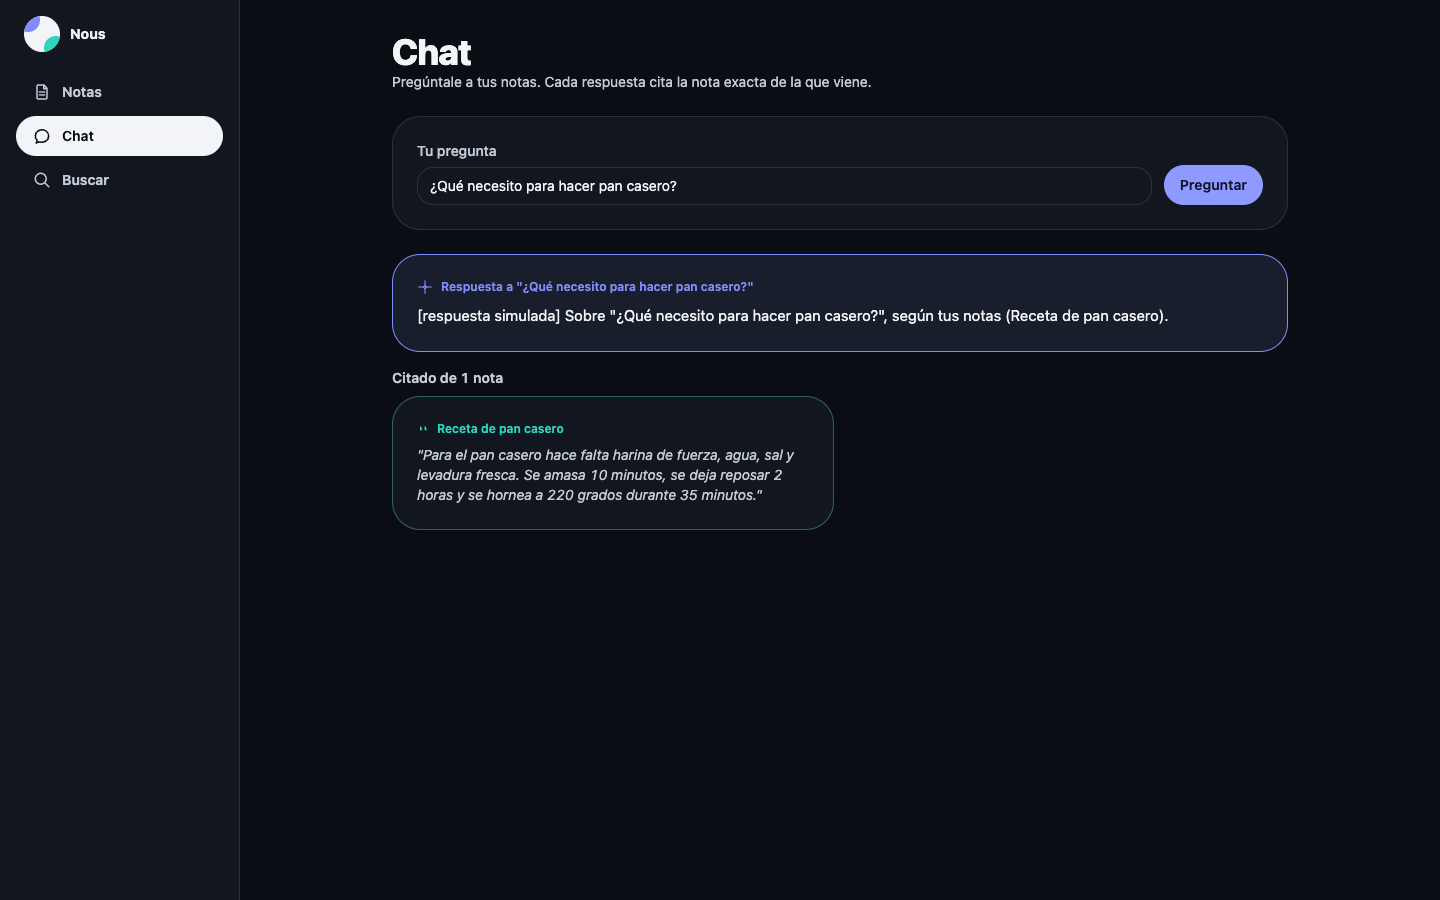
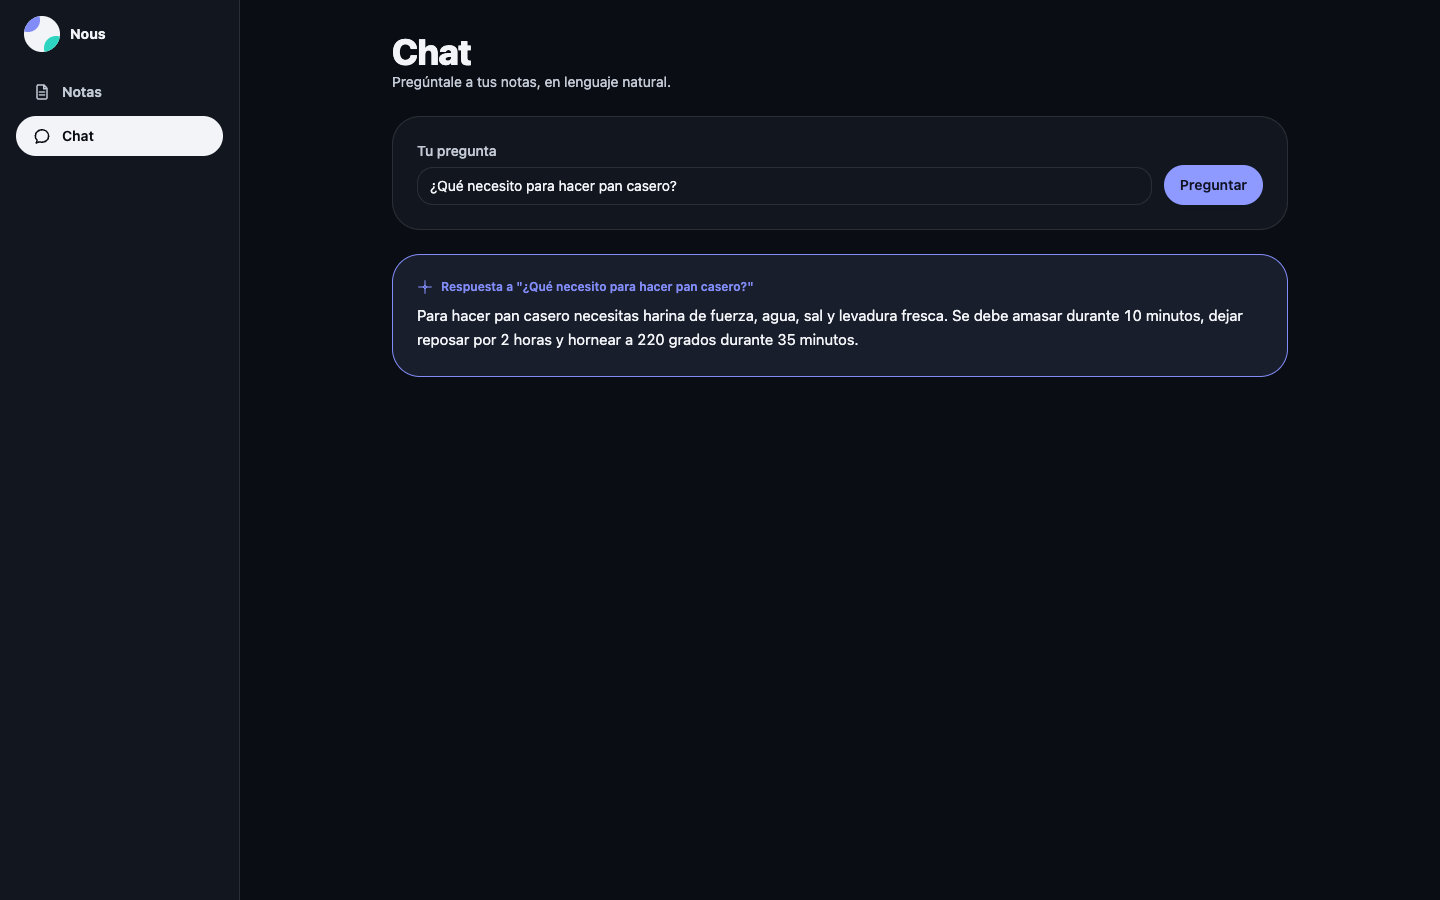
Quita las citas del chat y el buscador: la respuesta generada ya basta
Con Ollama generando respuestas de verdad, el andamiaje de "Citado de N
notas" + tarjetas de cita rompía la sensación de conversación natural sin
aportar nada que se fuera a usar — el chat ahora solo muestra la respuesta.

Por el mismo motivo, el buscador semántico directo (pantalla "Buscar" +
GET /search) queda superado por el chat y se elimina por completo:
frontend, ruta y caso de uso del backend, tests y capturas. El botón
"teal" del design system quedaba sin usar tras esto y se retira también.

De paso, se arregla el prompt del RAG para que el modelo no se refiera a
las notas como "fuente [1]" en su respuesta — artefacto que quedaba de
cuando sí se numeraban para las citas ahora eliminadas.

Claude-Session: https://claude.ai/code/session_01SV5K6VFf8PSQ4QT2ok3gdZ

diff --git a/src/features/chat/ChatScreen.tsx b/src/features/chat/ChatScreen.tsx
@@ -2,7 +2,7 @@ import { useState, type FormEvent } from "react";
 import { Button } from "../../components/Button";
 import { Card } from "../../components/Card";
 import { Field, inputClass } from "../../components/Field";
-import { ChatIcon, QuoteIcon, SparkleIcon } from "../../components/icons";
+import { ChatIcon, SparkleIcon } from "../../components/icons";
 import { askApi } from "../../data/api";
 import type { Answer } from "../../data/types";
 
@@ -36,9 +36,7 @@ export function ChatScreen() {
     <div className="flex flex-col gap-6">
       <div>
         <h1 className="text-3xl font-extrabold tracking-tight text-[var(--text-primary)] sm:text-4xl">Chat</h1>
-        <p className="text-sm text-[var(--text-secondary)]">
-          Pregúntale a tus notas. Cada respuesta cita la nota exacta de la que viene.
-        </p>
+        <p className="text-sm text-[var(--text-secondary)]">Pregúntale a tus notas, en lenguaje natural.</p>
       </div>
 
       <Card>
@@ -97,63 +95,20 @@ export function ChatScreen() {
       )}
 
       {status === "done" && answer && (
-        <div className="flex flex-col gap-4">
-          <Card
-            style={{
-              borderColor: "var(--accent-indigo)",
-              backgroundColor: "color-mix(in srgb, var(--accent-indigo) 6%, var(--surface-1))",
-            }}
-          >
-            <div className="flex items-center gap-2 text-xs font-semibold" style={{ color: "var(--accent-indigo)" }}>
-              <SparkleIcon className="size-4" />
-              Respuesta a "{askedQuestion}"
-            </div>
-            <p className="mt-2 text-[15px] leading-relaxed whitespace-pre-wrap text-[var(--text-primary)]">
-              {answer.text}
-            </p>
-          </Card>
-
-          <div>
-            <h2 className="mb-2 text-sm font-semibold text-[var(--text-secondary)]">
-              {answer.citations.length > 0
-                ? `Citado de ${answer.citations.length} nota${answer.citations.length === 1 ? "" : "s"}`
-                : "Fuentes citadas"}
-            </h2>
-
-            {answer.citations.length === 0 ? (
-              <Card
-                style={{
-                  borderColor: "var(--status-warning)",
-                  backgroundColor: "color-mix(in srgb, var(--status-warning) 8%, var(--surface-1))",
-                }}
-              >
-                <p className="text-sm" style={{ color: "var(--status-warning)" }}>
-                  Esta respuesta no cita ninguna nota. Puede que todavía no tengas notas guardadas, o que ninguna sea
-                  relevante para esta pregunta.
-                </p>
-              </Card>
-            ) : (
-              <div className="grid gap-3 sm:grid-cols-2">
-                {answer.citations.map((citation, i) => (
-                  <Card
-                    key={`${citation.noteId}-${i}`}
-                    className="flex flex-col gap-2"
-                    style={{ borderColor: "color-mix(in srgb, var(--accent-teal) 30%, var(--border))" }}
-                  >
-                    <div
-                      className="flex items-center gap-1.5 text-xs font-semibold"
-                      style={{ color: "var(--accent-teal)" }}
-                    >
-                      <QuoteIcon className="size-3.5" />
-                      {citation.noteTitle}
-                    </div>
-                    <p className="text-sm text-[var(--text-secondary)] italic">"{citation.excerpt}"</p>
-                  </Card>
-                ))}
-              </div>
-            )}
+        <Card
+          style={{
+            borderColor: "var(--accent-indigo)",
+            backgroundColor: "color-mix(in srgb, var(--accent-indigo) 6%, var(--surface-1))",
+          }}
+        >
+          <div className="flex items-center gap-2 text-xs font-semibold" style={{ color: "var(--accent-indigo)" }}>
+            <SparkleIcon className="size-4" />
+            Respuesta a "{askedQuestion}"
           </div>
-        </div>
+          <p className="mt-2 text-[15px] leading-relaxed whitespace-pre-wrap text-[var(--text-primary)]">
+            {answer.text}
+          </p>
+        </Card>
       )}
     </div>
   );

diff --git a/src/components/icons.tsx b/src/components/icons.tsx
@@ -31,15 +31,6 @@ export function ChatIcon(props: IconProps) {
   );
 }
 
-export function SearchIcon(props: IconProps) {
-  return (
-    <svg {...base} {...props}>
-      <circle cx="10.5" cy="10.5" r="6.5" />
-      <path d="m20 20-4.8-4.8" />
-    </svg>
-  );
-}
-
 export function SparkleIcon(props: IconProps) {
   return (
     <svg {...base} {...props}>
@@ -48,16 +39,6 @@ export function SparkleIcon(props: IconProps) {
       <path d="M3 12h4" />
       <path d="M17 12h4" />
       <path d="M12 8.5c0 2-1.5 3.5-3.5 3.5 2 0 3.5 1.5 3.5 3.5 0-2 1.5-3.5 3.5-3.5-2 0-3.5-1.5-3.5-3.5Z" />
-    </svg>
-  );
-}
-
-/** Marca de cita, para señalar visualmente un fragmento anclado a una nota concreta. */
-export function QuoteIcon(props: IconProps) {
-  return (
-    <svg {...base} {...props}>
-      <path d="M5 9.5c0-1.4 1.1-2.5 2.5-2.5v2c-.3 0-.5.2-.5.5v.5h1.5v4H5v-4.5Z" fill="currentColor" stroke="none" />
-      <path d="M13 9.5c0-1.4 1.1-2.5 2.5-2.5v2c-.3 0-.5.2-.5.5v.5h1.5v4H13v-4.5Z" fill="currentColor" stroke="none" />
     </svg>
   );
 }

diff --git a/backend/src/infrastructure/llm/prompt.ts b/backend/src/infrastructure/llm/prompt.ts
@@ -1,14 +1,19 @@
 import type { RetrievedChunk } from "../../domain/types.js";
 
 /** Prompt compartido entre adaptadores de LLM (Claude, Ollama): misma instrucción de
- * "solo con las fuentes de abajo", para que el comportamiento de citar (o no
- * inventar) sea consistente sea cual sea el proveedor real detrás. */
+ * "solo con las notas de abajo", para que el comportamiento de no inventar sea
+ * consistente sea cual sea el proveedor real detrás.
+ *
+ * Sin numerar las fuentes como [1]/[2]: la interfaz de chat no muestra citas (decisión
+ * del usuario — quiere la respuesta limpia, sin la "magia" rota por ver de dónde sale
+ * cada dato), así que no queremos que el modelo se refiera a ellas como "la fuente 2"
+ * dentro de la propia respuesta. */
 export function buildRagPrompt(question: string, context: RetrievedChunk[]): string {
-  const sources = context.map((c, i) => `[${i + 1}] (${c.noteTitle})\n${c.chunk.content}`).join("\n\n");
-  return `Responde a la pregunta usando SOLO la información de las fuentes de abajo. Si no está, di que no lo sabes.
+  const notes = context.map((c) => `(${c.noteTitle})\n${c.chunk.content}`).join("\n\n");
+  return `Responde a la pregunta usando SOLO la información de las notas de abajo, en una respuesta natural y directa. Si no está, di que no lo sabes. No te refieras a las notas por número ni menciones que son "fuentes" — simplemente responde como si lo supieras.
 
-Fuentes:
-${sources}
+Notas:
+${notes}
 
 Pregunta: ${question}`;
 }

diff --git a/src/features/chat/ChatScreen.test.tsx b/src/features/chat/ChatScreen.test.tsx
@@ -17,7 +17,7 @@ describe("ChatScreen", () => {
     expect(screen.getByRole("button", { name: "Preguntar" })).toBeDisabled();
   });
 
-  it("al preguntar, muestra la respuesta citando la nota de origen", async () => {
+  it("al preguntar, muestra la respuesta generada", async () => {
     const user = userEvent.setup();
     askApi.ask.mockResolvedValue({
       text: "Hace falta harina, agua, sal y levadura.",
@@ -30,19 +30,7 @@ describe("ChatScreen", () => {
 
     expect(askApi.ask).toHaveBeenCalledWith("¿Qué hace falta para el pan?");
     expect(await screen.findByText("Hace falta harina, agua, sal y levadura.")).toBeInTheDocument();
-    expect(screen.getByText("Receta de pan")).toBeInTheDocument();
-    expect(screen.getByText('"Harina, agua, sal y levadura."')).toBeInTheDocument();
-  });
-
-  it("sin citas en la respuesta, avisa de que no está anclada a ninguna nota", async () => {
-    const user = userEvent.setup();
-    askApi.ask.mockResolvedValue({ text: "No tienes notas todavía.", citations: [] });
-    render(<ChatScreen />);
-
-    await user.type(screen.getByLabelText("Tu pregunta"), "¿Algo?");
-    await user.click(screen.getByRole("button", { name: "Preguntar" }));
-
-    expect(await screen.findByText(/no cita ninguna nota/)).toBeInTheDocument();
+    expect(screen.getByText('Respuesta a "¿Qué hace falta para el pan?"')).toBeInTheDocument();
   });
 
   it("si la API falla, muestra el error en vez de quedarse cargando", async () => {

diff --git a/backend/src/infrastructure/http/server.test.ts b/backend/src/infrastructure/http/server.test.ts
@@ -117,20 +117,6 @@ describe("POST /ask", () => {
   });
 });
 
-describe("GET /search", () => {
-  it("devuelve los trozos más similares a la búsqueda", async () => {
-    await app.inject({
-      method: "POST",
-      url: "/notes",
-      payload: { content: "Notas de viaje\nFuimos a la playa en verano y comimos marisco fresco." },
-    });
-
-    const res = await app.inject({ method: "GET", url: "/search?q=playa marisco" });
-    expect(res.statusCode).toBe(200);
-    expect(res.json()[0]).toMatchObject({ noteTitle: "Notas de viaje" });
-  });
-});
-
 describe("autenticación opcional (API_TOKEN), de extremo a extremo con el servidor real", () => {
   it("con apiToken configurado, exige el token también en las rutas ya montadas", async () => {
     const authedApp = await buildServer(pool, createFakeEmbeddingProvider(), createFakeLLMProvider(), {

diff --git a/src/components/Button.tsx b/src/components/Button.tsx
@@ -2,12 +2,11 @@ import { forwardRef, type ButtonHTMLAttributes } from "react";
 import { focusRing } from "./Field";
 
 /**
- * Solo cuatro tonos de marca, deliberadamente pocos: "ink" es la acción principal por
+ * Solo tres tonos de marca, deliberadamente pocos: "ink" es la acción principal por
  * defecto de cualquier pantalla o formulario; "indigo" se reserva para la acción que
- * dispara una respuesta generada por IA (Chat); "teal" para la que dispara una
- * recuperación directa de fuentes (Buscar); "critical" para confirmar un borrado.
+ * dispara una respuesta generada por IA (Chat); "critical" para confirmar un borrado.
  */
-export type ButtonTone = "ink" | "indigo" | "teal" | "critical";
+export type ButtonTone = "ink" | "indigo" | "critical";
 
 /**
  * "solid": botón principal, píldora rellena.
@@ -28,7 +27,6 @@ interface ButtonProps extends ButtonHTMLAttributes<HTMLButtonElement> {
 const toneVars: Record<ButtonTone, { bg: string; fg: string }> = {
   ink: { bg: "var(--ink)", fg: "var(--on-ink)" },
   indigo: { bg: "var(--accent-indigo)", fg: "var(--on-accent-indigo)" },
-  teal: { bg: "var(--accent-teal)", fg: "var(--on-accent-teal)" },
   critical: { bg: "var(--status-critical)", fg: "var(--on-status-critical)" },
 };
 

diff --git a/src/App.tsx b/src/App.tsx
@@ -1,17 +1,15 @@
 import { useState, type ComponentType, type SVGProps } from "react";
 import { BrandMark } from "./components/BrandMark";
 import { ConfirmProvider } from "./components/ConfirmProvider";
-import { ChatIcon, NotesIcon, SearchIcon } from "./components/icons";
+import { ChatIcon, NotesIcon } from "./components/icons";
 import { ChatScreen } from "./features/chat/ChatScreen";
-import { BuscarScreen } from "./features/buscar/BuscarScreen";
 import { NotasScreen } from "./features/notas/NotasScreen";
 
-type Section = "notas" | "chat" | "buscar";
+type Section = "notas" | "chat";
 
 const sections: { id: Section; label: string; icon: ComponentType<SVGProps<SVGSVGElement>> }[] = [
   { id: "notas", label: "Notas", icon: NotesIcon },
   { id: "chat", label: "Chat", icon: ChatIcon },
-  { id: "buscar", label: "Buscar", icon: SearchIcon },
 ];
 
 export default function App() {
@@ -51,7 +49,6 @@ export default function App() {
           <div className="mx-auto max-w-4xl">
             {section === "notas" && <NotasScreen />}
             {section === "chat" && <ChatScreen />}
-            {section === "buscar" && <BuscarScreen />}
           </div>
         </main>
 

diff --git a/src/data/api.ts b/src/data/api.ts
@@ -1,4 +1,4 @@
-import type { Answer, NewNote, Note, RetrievedChunk } from "./types";
+import type { Answer, NewNote, Note } from "./types";
 
 // Usa el mismo host desde el que se cargó la página (localhost, IP de LAN o de
 // Tailscale) en vez de "localhost" fijo, que en el móvil apuntaría al propio móvil.
@@ -37,8 +37,4 @@ export const tagsApi = {
 
 export const askApi = {
   ask: (question: string) => request<Answer>("/ask", { method: "POST", body: JSON.stringify({ question }) }),
-};
-
-export const searchApi = {
-  search: (query: string) => request<RetrievedChunk[]>(`/search?q=${encodeURIComponent(query)}`),
 };

diff --git a/src/data/types.ts b/src/data/types.ts
@@ -20,9 +20,3 @@ export interface Answer {
   text: string;
   citations: Citation[];
 }
-
-export interface RetrievedChunk {
-  chunk: { id: string; noteId: string; content: string; position: number };
-  noteTitle: string;
-  score: number;
-}

diff --git a/e2e/chat.spec.ts b/e2e/chat.spec.ts
@@ -1,6 +1,6 @@
 import { expect, test } from "@playwright/test";
 
-test("pregunta al chat y la respuesta cita la nota de origen", async ({ page }) => {
+test("pregunta al chat y muestra la respuesta generada", async ({ page }) => {
   await page.goto("/");
   await page.getByRole("button", { name: "+ Nueva nota" }).click();
   await page
@@ -13,6 +13,5 @@ test("pregunta al chat y la respuesta cita la nota de origen", async ({ page }) 
   await page.getByLabel("Tu pregunta").fill("¿Qué hace falta para el pan casero?");
   await page.getByRole("button", { name: "Preguntar" }).click();
 
-  await expect(page.getByText(/Respuesta a/)).toBeVisible();
-  await expect(page.getByText("Receta de pan E2E", { exact: true })).toBeVisible();
+  await expect(page.getByText('Respuesta a "¿Qué hace falta para el pan casero?"')).toBeVisible();
 });

diff --git a/backend/src/infrastructure/http/server.ts b/backend/src/infrastructure/http/server.ts
@@ -5,12 +5,10 @@ import rateLimit from "@fastify/rate-limit";
 import type { Pool } from "pg";
 import { createNoteUseCases } from "../../application/notes.js";
 import { createAskUseCase } from "../../application/ask.js";
-import { createSearchUseCase } from "../../application/search.js";
 import type { EmbeddingProvider, LLMProvider } from "../../domain/ports.js";
 import { registerAuth } from "./auth.js";
 import { registerNoteRoutes } from "./noteRoutes.js";
 import { registerAskRoutes } from "./askRoutes.js";
-import { registerSearchRoutes } from "./searchRoutes.js";
 import { createNoteRepository } from "../db/repositories/noteRepository.js";
 import { createChunkRepository } from "../db/repositories/chunkRepository.js";
 
@@ -39,7 +37,6 @@ export async function buildServer(
 
   registerNoteRoutes(app, createNoteUseCases(noteRepository, chunkRepository, embeddingProvider));
   registerAskRoutes(app, createAskUseCase(chunkRepository, embeddingProvider, llmProvider));
-  registerSearchRoutes(app, createSearchUseCase(chunkRepository, embeddingProvider));
 
   return app;
 }

diff --git a/src/components/LoadingState.tsx b/src/components/LoadingState.tsx
@@ -2,7 +2,7 @@ function SkeletonBlock({ className = "" }: { className?: string }) {
   return <div className={`skeleton-shimmer rounded-lg bg-[var(--gridline)] ${className}`} />;
 }
 
-/** Skeleton de carga para listas de tarjetas (Notas, Buscar), mientras llega la
+/** Skeleton de carga para listas de tarjetas (Notas), mientras llega la
  * respuesta del backend. */
 export function ListSkeleton({
   count = 3,